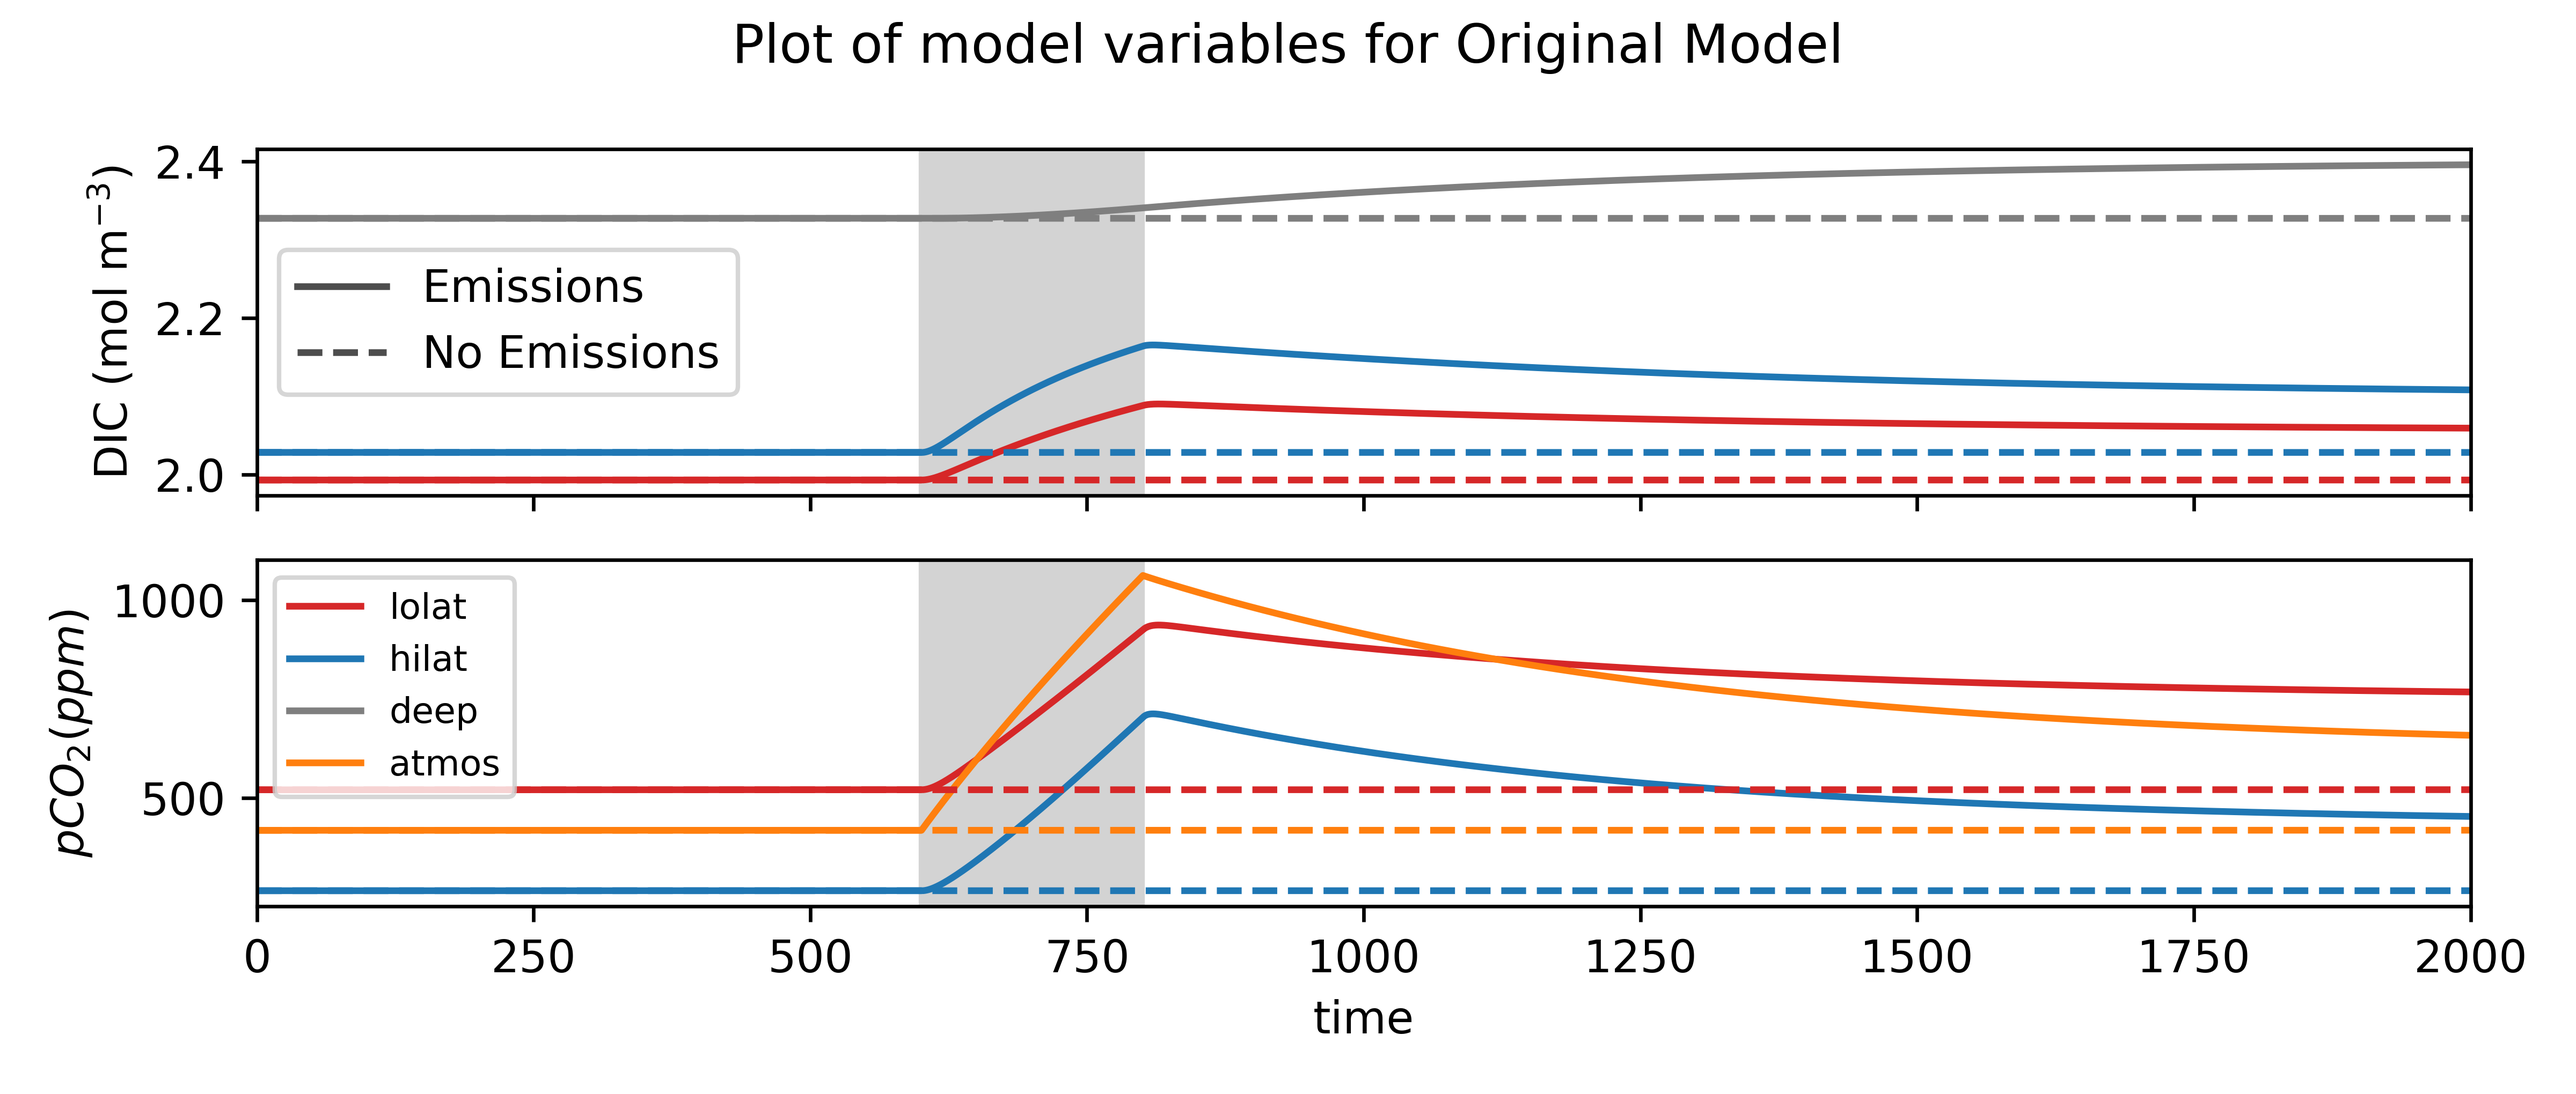
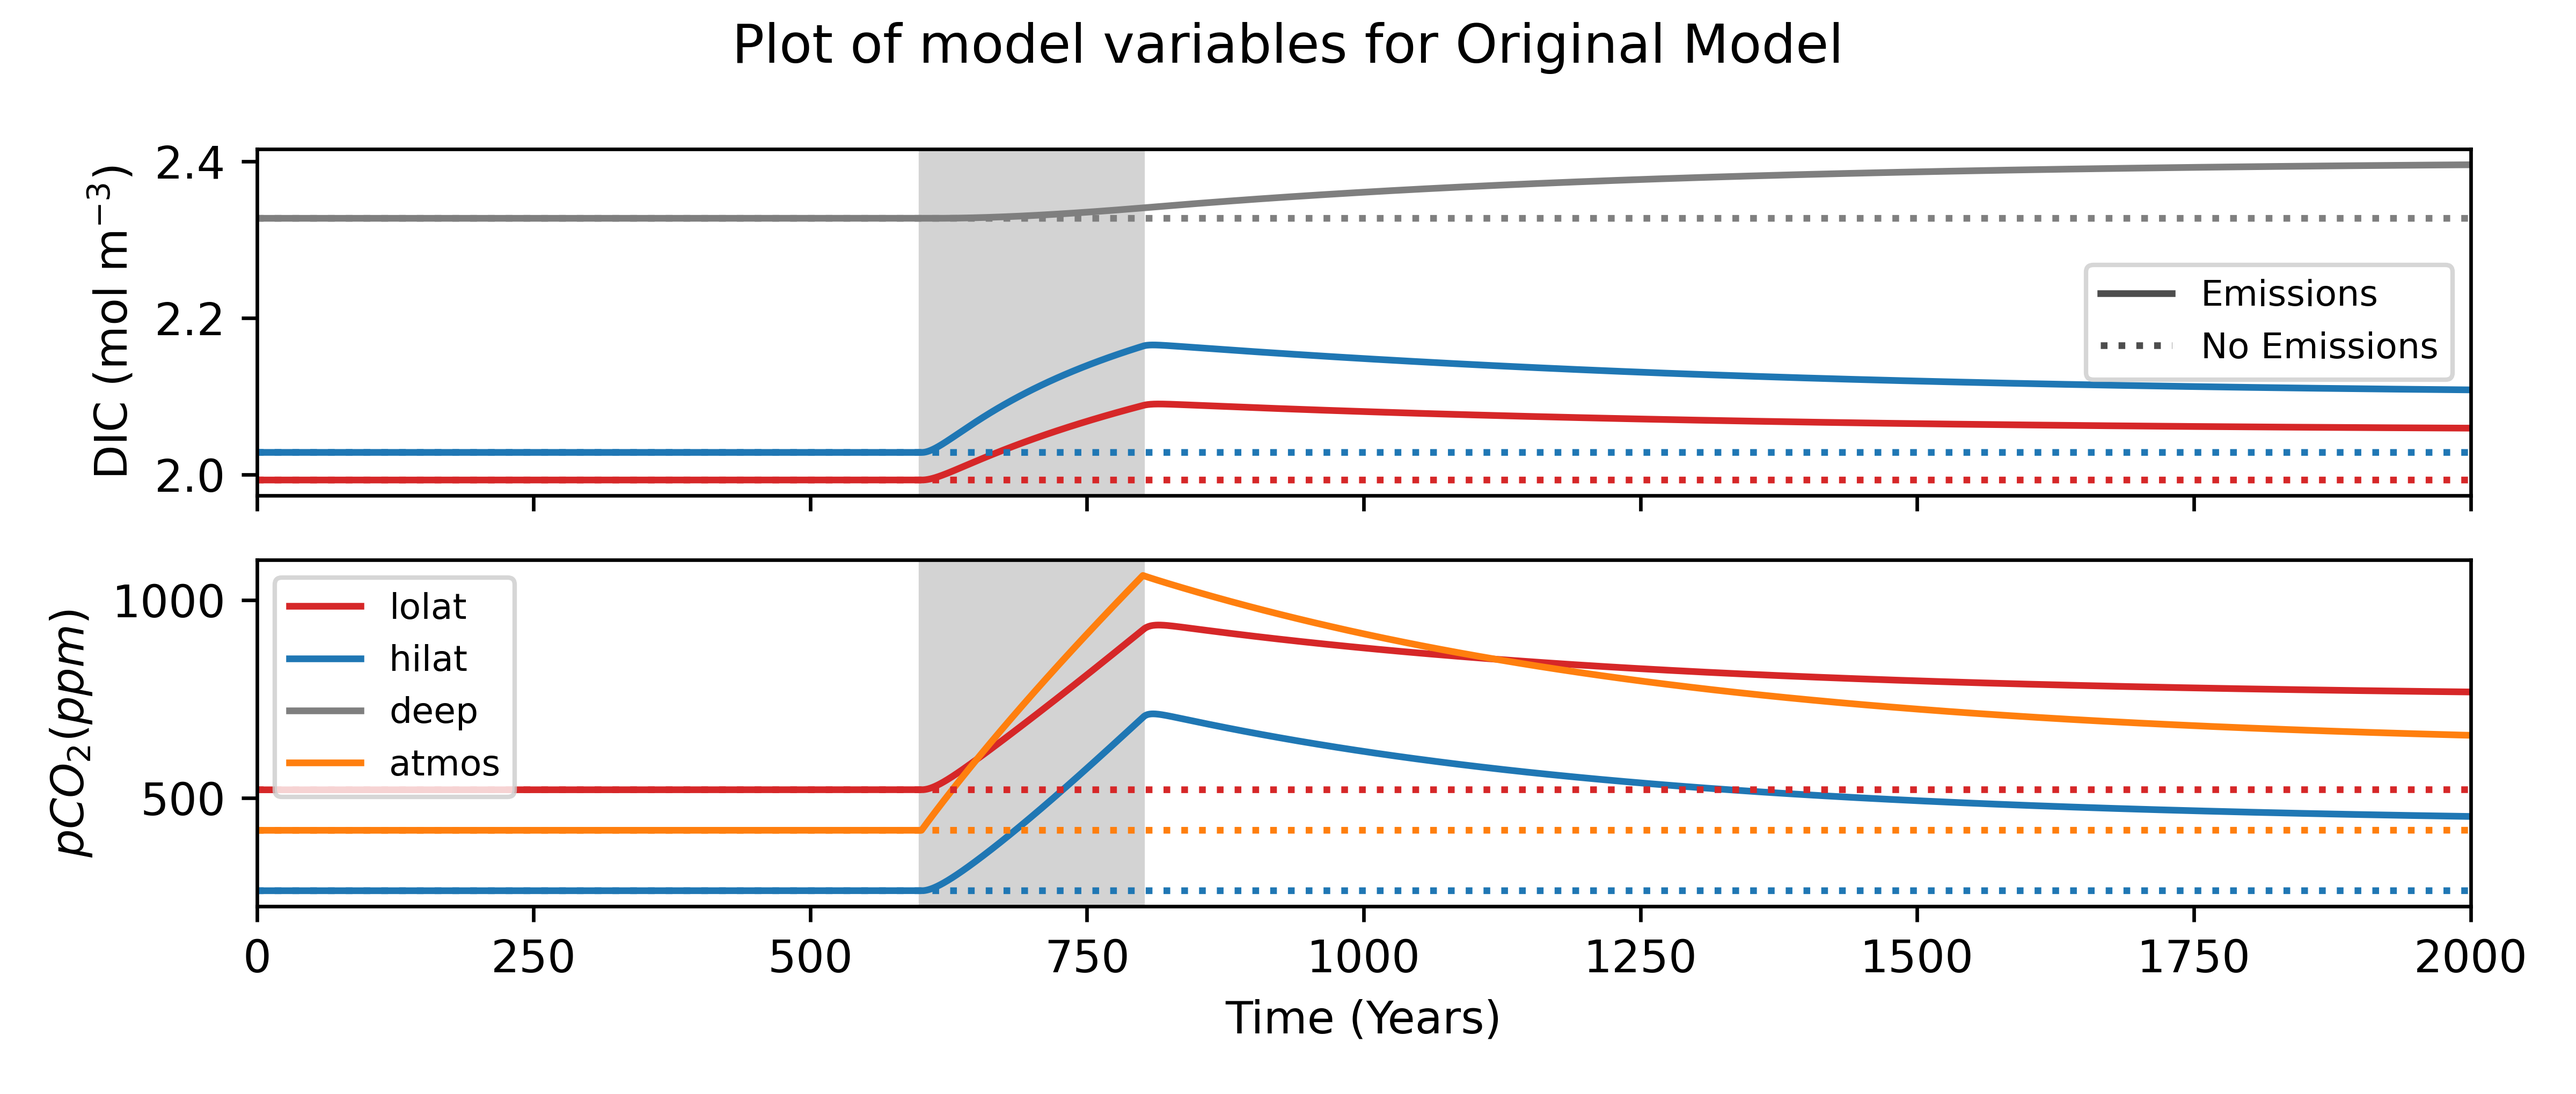
Plots

diff --git a/LongQuestion3/P6main.py b/LongQuestion3/P6main.py
@@ -3,9 +3,9 @@ import matplotlib.pyplot as plt
 from OceanTools.tools import plot
 from lfcd2OceanTools.lfcd2Tools import copy_dicts, add_emissions, add_fancy_labels
 
-from default_model import original_model
-from acidification_model import acidification_model
-from my_model import ocean_model_q3
+from Model1Original import original_model
+from Model2Acidification import acidification_model
+from Model3Ballasting import ballasting_model
 
 
 # global variables
@@ -104,7 +104,7 @@ def init_dicts_16():
     return [init_lolat, init_hilat, init_deep, init_atmos]
 
 
-def run():
+def plot_all_three():
     """
     this runs the code
     """
@@ -118,21 +118,17 @@ def run():
 
     vars_to_plot = ['DIC', 'TA', 'pCO2', 'particle_sinking_time', 'f_CaCO3']
 
-    # this line of code runs the model
     time_array, finished_dicts = original_model(copy_dicts(dicts), 2000, 0.5)
-
-    # this unpacks the result that is output from the model
     final_lolat, final_hilat, final_deep, final_atmos = finished_dicts
-
-    # this uses oscars plot function to plot DIC, TA and pCO2 (you can experiment by adding variables into this list)
-    fig, axs = plot.boxes(time_array, vars_to_plot, final_lolat, final_hilat, final_deep, final_atmos)
+    fig, axs = plot.boxes(time_array, vars_to_plot, final_lolat, final_hilat, final_deep, final_atmos,
+                          label='Original Model')
 
     time_array, finished_dicts = acidification_model(copy_dicts(dicts), 2000, 0.5)
     final_lolat, final_hilat, final_deep, final_atmos = finished_dicts
     plot.boxes(time_array, vars_to_plot, final_lolat, final_hilat, final_deep, final_atmos,
                axs=axs, label='Acidification Model', ls='dotted')
 
-    time_array, finished_dicts = ocean_model_q3(copy_dicts(dicts), 2000, 0.5)
+    time_array, finished_dicts = ballasting_model(copy_dicts(dicts), 2000, 0.5)
     final_lolat, final_hilat, final_deep, final_atmos = finished_dicts
     plot.boxes(time_array, vars_to_plot, final_lolat, final_hilat, final_deep, final_atmos,
                axs=axs, label='Ballasting Feedback Model', ls='dashed')
@@ -140,6 +136,7 @@ def run():
     plt.suptitle('Plot of model variables for different models')
     fig.tight_layout()
     add_fancy_labels(axs, vars_to_plot)
+    axs[-1].set_xlabel('Time (Years)')
     for ax in axs:
         maximum = ax.get_ylim()[1]
         minimum = ax.get_ylim()[0]
@@ -150,39 +147,102 @@ def run():
     plt.savefig('pics/LongQuestionPlot1.png', dpi=600)
     plt.show()
 
-    models = [ocean_model_q3, acidification_model, original_model]
+
+def plot_against_emissions(gauss=False):
+
+    # this line of code runs initialise_dicts which sets up the initial dictionaries
+    init_dicts = init_dicts_16()
+    tmax = 2000  # how many years to simulate (yr)
+    dt = 0.5  # the time step of the simulation (yr)
+    time = np.arange(0, tmax + dt, dt)  # the time axis for the model
+    dicts = add_emissions(copy_dicts(init_dicts), time, 600, 800, 8, gaussian=gauss)
+
+    vars_to_plot = ['DIC', 'TA', 'pCO2', 'particle_sinking_time', 'f_CaCO3']
+    # PLOT THE THREE MODELS INDIVIDUALLY COMPARED TO NO EMISSIONS
+
+    models = [ballasting_model, acidification_model, original_model]
     names = ['Ballasting Feedback', 'Acidification', 'Original']
     for i, model in enumerate(models):
 
+        # DECIDE WHICH VARS TO PLOT
         vars_to_plot = ['DIC', 'pCO2'] if names[i] == 'Original' else vars_to_plot
         vars_to_plot = ['DIC', 'TA', 'pCO2', 'f_CaCO3'] if names[i] == 'Acidification' else vars_to_plot
+        gtype = ""
+        if gauss:
+            vars_to_plot.append('GtC_emissions')
+            gtype = "(Gaussian)"
 
+        # PLOT WITH EMISSIONS
         time_array, finished_dicts = model(copy_dicts(dicts), 2000, 0.5)
         final_lolat, final_hilat, final_deep, final_atmos = finished_dicts
         fig, axs = plot.boxes(time_array, vars_to_plot, final_lolat, final_hilat, final_deep, final_atmos,
                               label='Emissions', ls='solid')
 
+        # PLOT WITHOUT EMISSIONS
         time_array, finished_dicts = model(copy_dicts(init_dicts), 2000, 0.5)
         final_lolat, final_hilat, final_deep, final_atmos = finished_dicts
         plot.boxes(time_array, vars_to_plot, final_lolat, final_hilat, final_deep, final_atmos,
-                   axs=axs, label='No Emissions', ls='dashed')
+                   axs=axs, label='No Emissions', ls='dotted')
 
-        handles, labels = axs[-2].get_legend_handles_labels()
-        handles.pop(1)
-        labels.pop(1)
-        axs[-2].legend(handles, labels)
+        # FORMAT NICELY
         plt.suptitle(f'Plot of model variables for {names[i]} Model')
         fig.tight_layout()
         add_fancy_labels(axs, vars_to_plot)
-        for ax in axs:
-            maximum = ax.get_ylim()[1]
-            minimum = ax.get_ylim()[0]
-            ax.set_ylim(minimum, maximum)
-            ax.fill_between((600, 800), (minimum, minimum), (maximum, maximum), color='lightgray')
+        axs[-1].set_xlabel('Time (Years)')
 
-        plt.savefig(f'pics/LongQuestionPlot{names[i].replace(" ", "")}Model.png', dpi=600)
+        # ADD GREY EMISSION BARS
+        if not gauss:
+            for ax in axs:
+                maximum = ax.get_ylim()[1]
+                minimum = ax.get_ylim()[0]
+                ax.set_ylim(minimum, maximum)
+                ax.fill_between((600, 800), (minimum, minimum), (maximum, maximum), color='lightgray')
+
+        plt.savefig(f'pics/LongQuestionPlot{names[i].replace(" ", "")}Model{gtype}.png', dpi=600)
         plt.show()
 
 
+def plot_export():
+    """
+    this runs the code
+    """
+
+    # this line of code runs initialise_dicts which sets up the initial dictionaries
+    init_dicts = init_dicts_16()
+    tmax = 2000  # how many years to simulate (yr)
+    dt = 0.5  # the time step of the simulation (yr)
+    time = np.arange(0, tmax + dt, dt)  # the time axis for the model
+    dicts = add_emissions(copy_dicts(init_dicts), time, 600, 800, 8)
+
+    vars_to_plot = ['DIC_export', 'TA_export', 'f_CaCO3', 'exp']
+
+    time_array, finished_dicts = ballasting_model(copy_dicts(dicts), 2000, 0.5)
+    final_lolat, final_hilat, final_deep, final_atmos = finished_dicts
+    fig, axs = plot.boxes(time_array, vars_to_plot, final_lolat, final_hilat,
+                          ls='dashed', label='Ballasting Model')
+
+    time_array, finished_dicts = acidification_model(copy_dicts(dicts), 2000, 0.5)
+    final_lolat, final_hilat, final_deep, final_atmos = finished_dicts
+    fig, axs = plot.boxes(time_array, vars_to_plot, final_lolat, final_hilat,
+                          axs=axs, label='Acidification Model', ls='dotted')
+
+    fig.tight_layout()
+    add_fancy_labels(axs, vars_to_plot)
+    axs[-1].set_xlabel('Time (Years)')
+
+    # ADD GREY EMISSION BARS
+    for ax in axs:
+        maximum = ax.get_ylim()[1]
+        minimum = ax.get_ylim()[0]
+        ax.set_ylim(minimum, maximum)
+        ax.fill_between((600, 800), (minimum, minimum), (maximum, maximum), color='lightgray')
+
+    plt.savefig(f'pics/LongQuestionPlot2.png', dpi=600)
+    plt.show()
+
+
 if __name__ == '__main__':
-    run()
+    plot_export()
+    # plot_all_three()
+    # plot_against_emissions(gauss=False)
+    # plot_against_emissions(gauss=True)

diff --git a/LongQuestion3/Model3Ballasting.py b/LongQuestion3/Model3Ballasting.py
@@ -27,7 +27,17 @@ rho_org = 1200
 rho_CaCO3 = 2700
 
 
-def ocean_model_q3(dicts, tmax, dt):
+def calculate_rho_p(f_caco3):
+    return (rho_org + f_caco3 * 10 / 3 * rho_org) / (1 + f_caco3 * 10 / 3 * rho_org / rho_CaCO3)
+
+
+def calculate_sinking_time(f_caco3, initial_density, depth):
+    rho_p = calculate_rho_p(f_caco3)
+    v = particle_velocity * (rho_p - 1000) / (initial_density - 1000)
+    return depth / v
+
+
+def ballasting_model(dicts, tmax, dt):
     """Run the ocean model for a given time period and return the results for each box.
 
     Parameters
@@ -54,7 +64,7 @@ def ocean_model_q3(dicts, tmax, dt):
     # identify which variables will change with time - we will iterate over these lists
     model_vars = ['T', 'S', 'DIC', 'TA', 'PO4']
     atmos_model_vars = ['moles_CO2', 'pCO2']
-    track_vars = ['f_CaCO3', 'particle_sinking_time', 'exp']
+    track_vars = ['f_CaCO3', 'particle_sinking_time', 'exp', 'DIC_export', 'TA_export']
 
     '''
     create copies of the input dictionaries, so we don't modify the originals
@@ -72,6 +82,9 @@ def ocean_model_q3(dicts, tmax, dt):
     for the atmos_model_vars
     '''
     for box in [lolat, hilat, deep]:
+        if box != deep:
+            box['DIC_export'] = 0.
+            box['TA_export'] = 0.
         for k in model_vars:
             box[k] = np.full(time.shape, box[k])
         for k in track_vars:
@@ -144,10 +157,11 @@ def ocean_model_q3(dicts, tmax, dt):
             fluxes[f'dDIC_{box_name}'] = \
                 (box['V'] / box['tau_CO2']) * (box['CO2'][last] - box['K0'][last] * atmos['pCO2'][last] * 1e-3) * dt
 
-            rho_p = (rho_org + box['f_CaCO3'][last] * 10 / 3 * rho_org) / (
-                    1 + box['f_CaCO3'][last] * 10 / 3 * rho_org / rho_CaCO3)
-            v = particle_velocity * (rho_p - 1000) / (box['rho_particle'] - 1000)
-            box['particle_sinking_time'][last] = box['depth'] / v
+            box['particle_sinking_time'][last] = calculate_sinking_time(box['f_CaCO3'][last],
+                                                                        box['rho_particle'],
+                                                                        box['depth'])
+            if i == tmax/dt - 1:
+                box['particle_sinking_time'][i+1] = box['particle_sinking_time'][last]
             box['exp'][i] = np.exp(- box['k_ballast'] * box['particle_sinking_time'][last])
 
             # Productivity
@@ -155,9 +169,11 @@ def ocean_model_q3(dicts, tmax, dt):
 
             # productivity on DIC (we add 106 here because the bio pump is favourable for DIC, but unfavourable for TA)
             fluxes[f'prod_DIC_{box_name}'] = fluxes[f'prod_PO4_{box_name}'] * (106 * box['f_CaCO3'][last] + 106)
+            box['DIC_export'][i] = fluxes[f'prod_DIC_{box_name}'] / (dt*box['V'])
 
             # productivity on TA
             fluxes[f'prod_TA_{box_name}'] = fluxes[f'prod_PO4_{box_name}'] * (106 * box['f_CaCO3'][last] * 2 - 18)
+            box['TA_export'][i] = fluxes[f'prod_TA_{box_name}'] / (dt*box['V'])
 
             # calculate emissions flux
         fluxes['emissions'] = atmos['GtC_emissions'][last] * 1e15 / 12 * dt

diff --git a/lfcd2OceanTools/lfcd2Tools.py b/lfcd2OceanTools/lfcd2Tools.py
@@ -183,13 +183,20 @@ class Modifier:
         return d
 
 
-def add_emissions(dicts, time, start, stop, value):
+def add_emissions(dicts, time, start, stop, value, gaussian=False):
     for i, d in enumerate(dicts):
         if d['name'] == 'atmos':
             emit_atmos = d.copy()  # create a copy of the original atmosphere input dictionary
             if type(emit_atmos['GtC_emissions']) == float:
                 emit_atmos['GtC_emissions'] = np.zeros(time.shape)  # creat an array to hold the emission scenario
-            emit_atmos['GtC_emissions'][(time > start) & (time <= stop)] = value  # set emissions
+            if gaussian:
+                SD = stop - start
+                center = stop + start
+                A = (value / np.sqrt(2*np.pi)) * 2
+                for j, a in enumerate(emit_atmos['GtC_emissions']):
+                    emit_atmos['GtC_emissions'][j] = A*np.exp(-((j-center)**2) / (2 * SD ** 2))
+            else:
+                emit_atmos['GtC_emissions'][(time > start) & (time <= stop)] = value  # set emissions
             dicts[i] = emit_atmos  # insert the modified dict back into dicts
     return dicts
 
@@ -207,4 +214,8 @@ def add_fancy_labels(axs, vars_to_plot):
         axs[vars_to_plot.index('particle_sinking_time')].set_ylabel(r'Sinking Time (days)')
     if 'GtC_emissions' in vars_to_plot:
         axs[vars_to_plot.index('GtC_emissions')].set_ylabel(r'Emissions (GtC)')
+    if 'DIC_export' in vars_to_plot:
+        axs[vars_to_plot.index('DIC_export')].set_ylabel(r'DIC Export (mol m$^{-3}$ yr$^{-1}$)', fontsize=8)
+    if 'TA_export' in vars_to_plot:
+        axs[vars_to_plot.index('TA_export')].set_ylabel(r'TA Export (mol m$^{-3}$ yr$^{-1}$)', fontsize=8)
     return axs

diff --git a/LongQuestion3/Model2Acidification.py b/LongQuestion3/Model2Acidification.py
@@ -37,7 +37,7 @@ def acidification_model(dicts, tmax, dt):
     model_vars = ['T', 'S', 'DIC', 'TA', 'PO4']
     atmos_model_vars = ['moles_CO2', 'pCO2']
     ### NEW CODE
-    track_vars = ['f_CaCO3', 'particle_sinking_time', 'v']
+    track_vars = ['f_CaCO3', 'particle_sinking_time', 'v', 'DIC_export', 'TA_export']
     ###
 
     # create copies of the input dictionaries so we don't modify the originals
@@ -48,6 +48,9 @@ def acidification_model(dicts, tmax, dt):
 
     # turn all time-evolving variables into arrays containing the start values
     for box in [lolat, hilat, deep]:
+        if box != deep:
+            box['DIC_export'] = 0.
+            box['TA_export'] = 0.
         for k in model_vars:
             box[k] = np.full(time.shape, box[k])
         ### NEW CODE
@@ -122,9 +125,12 @@ def acidification_model(dicts, tmax, dt):
             # DIC export by productivity :                                  redfield + calcification
             fluxes[f'export_DIC_{boxname}'] = fluxes[f'export_PO4_{boxname}'] * (
                         106 + 106 * box['f_CaCO3'][last])  # mol DIC dt-1
+            box['DIC_export'][i] = fluxes[f'export_DIC_{boxname}'] / (dt*box['V'])
+
             # TA export by productivity :                                  redfield + calcification
             fluxes[f'export_TA_{boxname}'] = fluxes[f'export_PO4_{boxname}'] * (
                         -18 + 2 * 106 * box['f_CaCO3'][last])  # mol TA dt-1
+            box['TA_export'][i] = fluxes[f'export_TA_{boxname}'] / (dt*box['V'])
 
         fluxes['dCO2_emissions'] = atmos['GtC_emissions'][last] * 1e15 / 12 * dt  # mol dt-1
 
